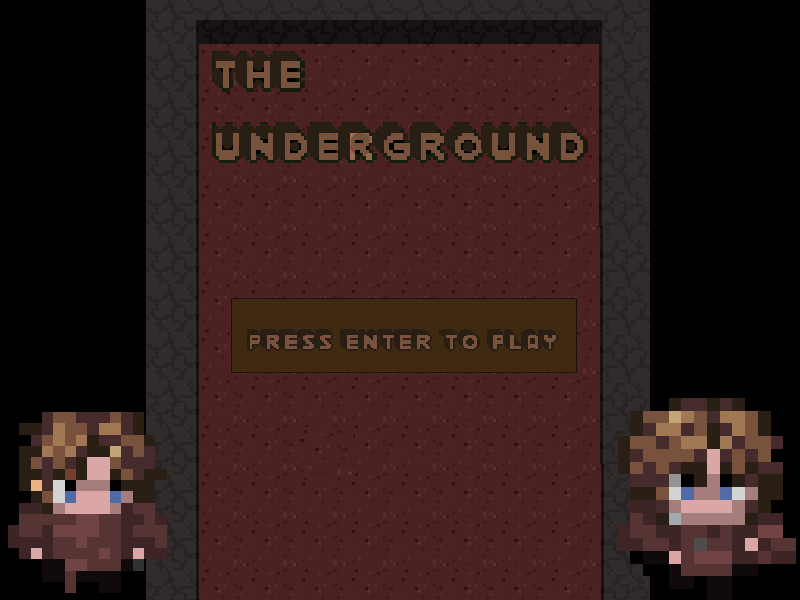
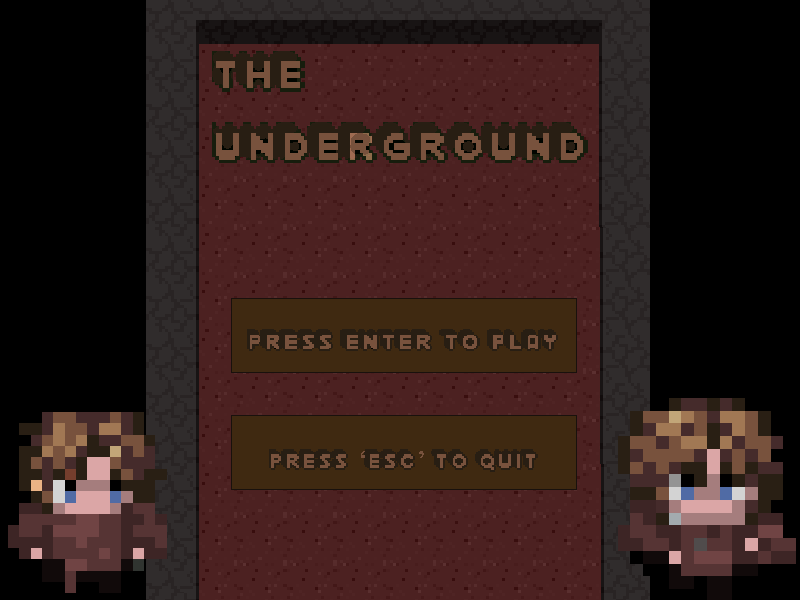
Finalised Menu and pause

diff --git a/src/net/net23/paulb/ludumdare/states/Menu.java b/src/net/net23/paulb/ludumdare/states/Menu.java
@@ -1,5 +1,6 @@
 package net.net23.paulb.ludumdare.states;
 
+import org.lwjgl.opengl.Display;
 import org.newdawn.slick.GameContainer;
 import org.newdawn.slick.Graphics;
 import org.newdawn.slick.Image;
@@ -34,7 +35,14 @@ public class Menu extends BasicGameState {
 		Input input = gc.getInput();
 		
 		if (input.isKeyDown(Input.KEY_ENTER)) {
+			gc.getInput();
 			gs.enterState(1, new EmptyTransition(), new SelectTransition());
+		}
+		
+		if (input.isKeyDown(Input.KEY_ESCAPE)) {
+			Display.destroy();
+			gc.exit();
+			System.exit(0);
 		}
 	}
 
